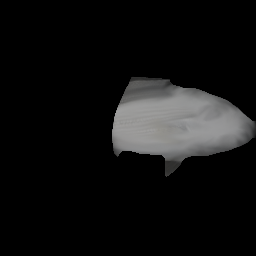
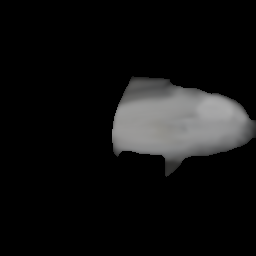
Play

Changed region(s): [[0.7812, 0.3438, 0.9688, 0.4688], [0.4375, 0.4375, 0.4688, 0.4688]]

diff --git a/script/models/projectedmodel.js b/script/models/projectedmodel.js
@@ -421,7 +421,7 @@ class ProjectedModel extends Drawable {
             this.positions[offset++] = offsetZ4 * heightOffset * inverse;
             if (clip4 < this.clampLimit) {
               this.positions[offset - 1] = 0;
-            } 
+            }
         
             if ((clip1 + clip2 + clip3 + clip4) < (this.clipLimit - 0.9)) {
               if (inverse == 1) {
@@ -430,12 +430,60 @@ class ProjectedModel extends Drawable {
             }
             clipOffset++;
           }
-        
         }
       }
 
-      let posIndex = 0;
+      clipOffset = 0;
+      offset = 0;
+      let direction = 0;
+      for (k = 0; k < 2; k++) {
+        for (i = this.getLOD() - 1; i >= 0; i--) {
+          for (j = this.getLOD() - 1; j >= 0; j--) {
+            clipOffset = k * (this.getLOD() * this.getLOD())
+               + (this.getLOD() - 1 - i) * (this.getLOD())
+               + (this.getLOD() - 1 - j);
+            if (clipList.includes(clipOffset)) {
+              if (j > 0) {
 
+                clipOffset = k * (this.getLOD() * this.getLOD())
+               + (this.getLOD() - 1 - i) * (this.getLOD())
+               + (this.getLOD() - 1 - (j-1));
+
+                this.positions[clipOffset*12 + 3 + 2] = 0;
+                this.positions[clipOffset*12 + 6 + 2] = 0;
+              }
+
+              if (j < this.getLOD() - 1) {
+                 clipOffset = k * (this.getLOD() * this.getLOD())
+               + (this.getLOD() - 1 - i) * (this.getLOD())
+               + (this.getLOD() - 1 - (j+1));
+
+               this.positions[clipOffset*12 + 3 + 2] = 0;
+               this.positions[clipOffset*12 + 6 + 2] = 0;
+             }
+/*
+
+              if (i > 0) {
+                direction = this.getLOD();
+                this.positions[offset + direction + 0 + 2] = 0;
+                this.positions[offset + direction + 3 + 2] = 0;
+              }
+
+              if (i < this.getLOD() - 1) {
+                direction = -this.getLOD();
+                this.positions[offset + direction + 6 + 2] = 0;
+                this.positions[offset + direction + 9 + 2] = 0;
+              }
+              */
+            }
+            offset += 12;
+            clipOffset++;
+          }
+        }
+        clipOffset = 0;
+      }
+
+      let posIndex = 0;
       
       gl.bufferData(gl.ARRAY_BUFFER, new Float32Array(this.positions),
                     gl.STATIC_DRAW);

diff --git a/script/models/sharktail.js b/script/models/sharktail.js
@@ -3,12 +3,12 @@ class SharkTail extends ProjectedModel {
 
   constructor() {
     super();
-    this.size = 3;
-    this.LOD = 16;
-    this.fat = 0.8;
+    this.size = 6;
+    this.LOD = 48;
+    this.fat = 0.4;
     //this.pivotOffset = -2.5;
     this.clipLimit = 150;
-    this.clampLimit = 125
+    this.clampLimit = 45;
     //this.centerOffset = -3;
     //this.vertexCount = 6 * (this.LOD * this.LOD) * 2;
   }

diff --git a/script/models/sharktorso.js b/script/models/sharktorso.js
@@ -3,11 +3,11 @@ class SharkTorso extends ProjectedModel {
 
   constructor() {
     super();
-    this.size = 3;
-    this.LOD = 24;
-    this.fat = 0.8;
+    this.size = 6;
+    this.LOD = 32;
+    this.fat = 0.4;
     this.clipLimit = 150;
-    this.clampLimit = 125
+    this.clampLimit = 45;
    // this.pivotOffset = -2.5;
    // this.centerOffset = -1;
     //this.vertexCount = 6 * (this.LOD * this.LOD) * 2;

diff --git a/script/models/fishtorso.js b/script/models/fishtorso.js
@@ -4,10 +4,10 @@ class FishTorso extends ProjectedModel {
     constructor() {
       super();
       this.size = 3.5;
-      this.LOD = 24;
-      this.fat = 0.6;
+      this.LOD = 48;
+      this.fat = 0.3;
       this.clipLimit = 150;
-      this.clampLimit = 125;
+      this.clampLimit = 40;
       //this.vertexCount = 6 * (this.LOD * this.LOD) * 2;
     }
   

diff --git a/script/world.js b/script/world.js
@@ -78,7 +78,7 @@ function main() {
   cloud2.setPosition(gl, -100, 400, 1280);
   cloud3.setPosition(gl, -1280, 400, 100);
   cloud4.setPosition(gl, 1280, 400, -100);
-  shark.setPosition(gl, 5, -1.5, 76);
+  shark.setPosition(gl, 5, 1.5, 76);
   for (i = 0; i < fishCount; i++) {
     fish[i].setPosition(gl, 10, -1.8, 78 - i);
   }

diff --git a/script/models/fishtail.js b/script/models/fishtail.js
@@ -4,8 +4,8 @@ class FishTail extends ProjectedModel {
   constructor() {
     super();
     this.size = 3.5;
-    this.LOD = 16;
-    this.fat = 0.6;
+    this.LOD = 48;
+    this.fat = 0.3;
     this.clipLimit = 150;
     this.clampLimit = 125;
     //this.vertexCount = 6 * (this.LOD * this.LOD) * 2;
